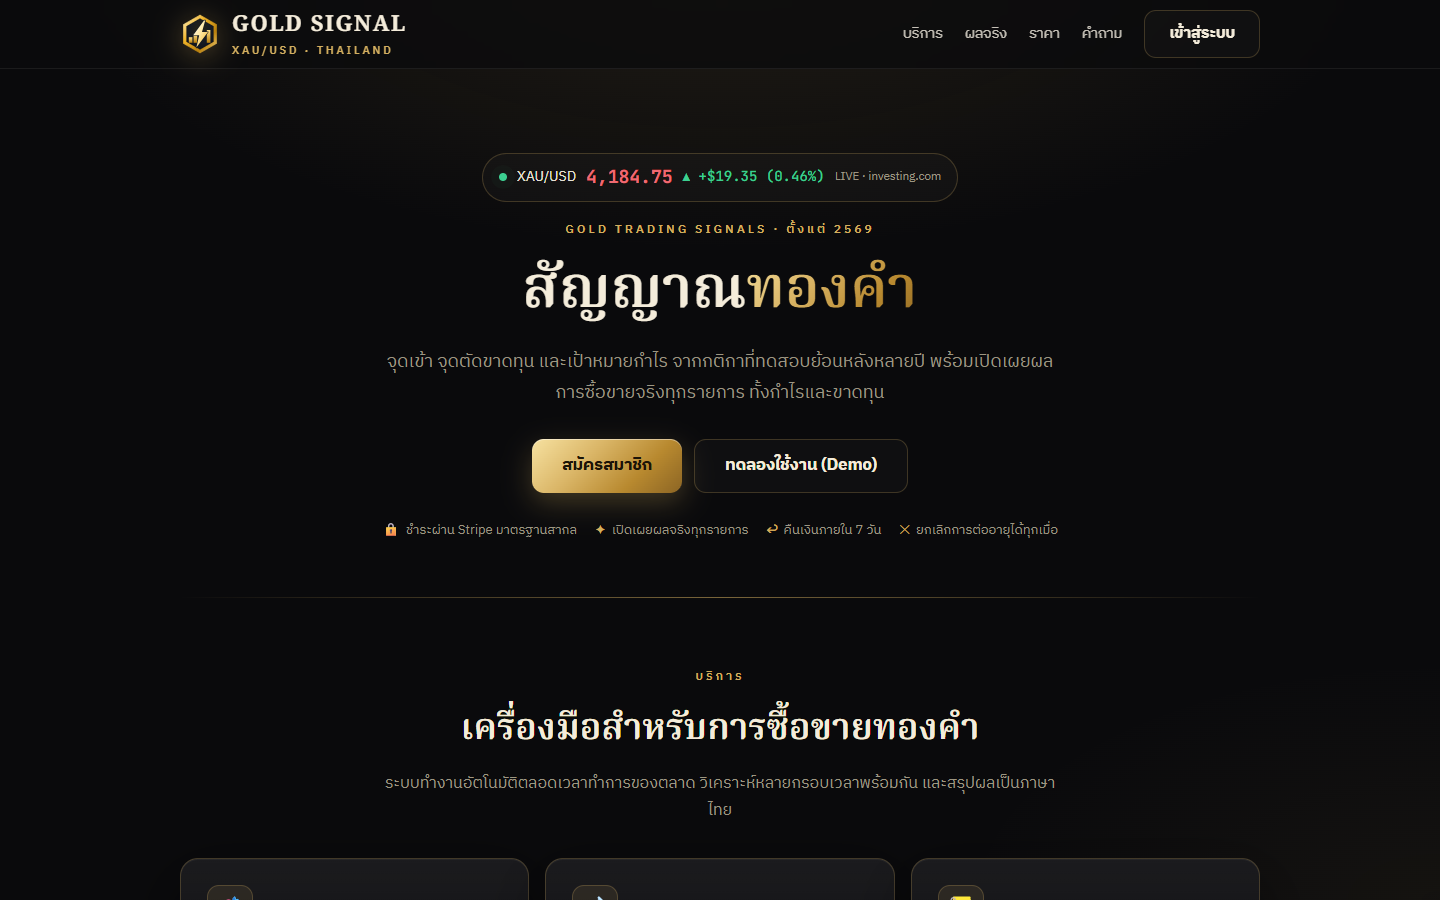
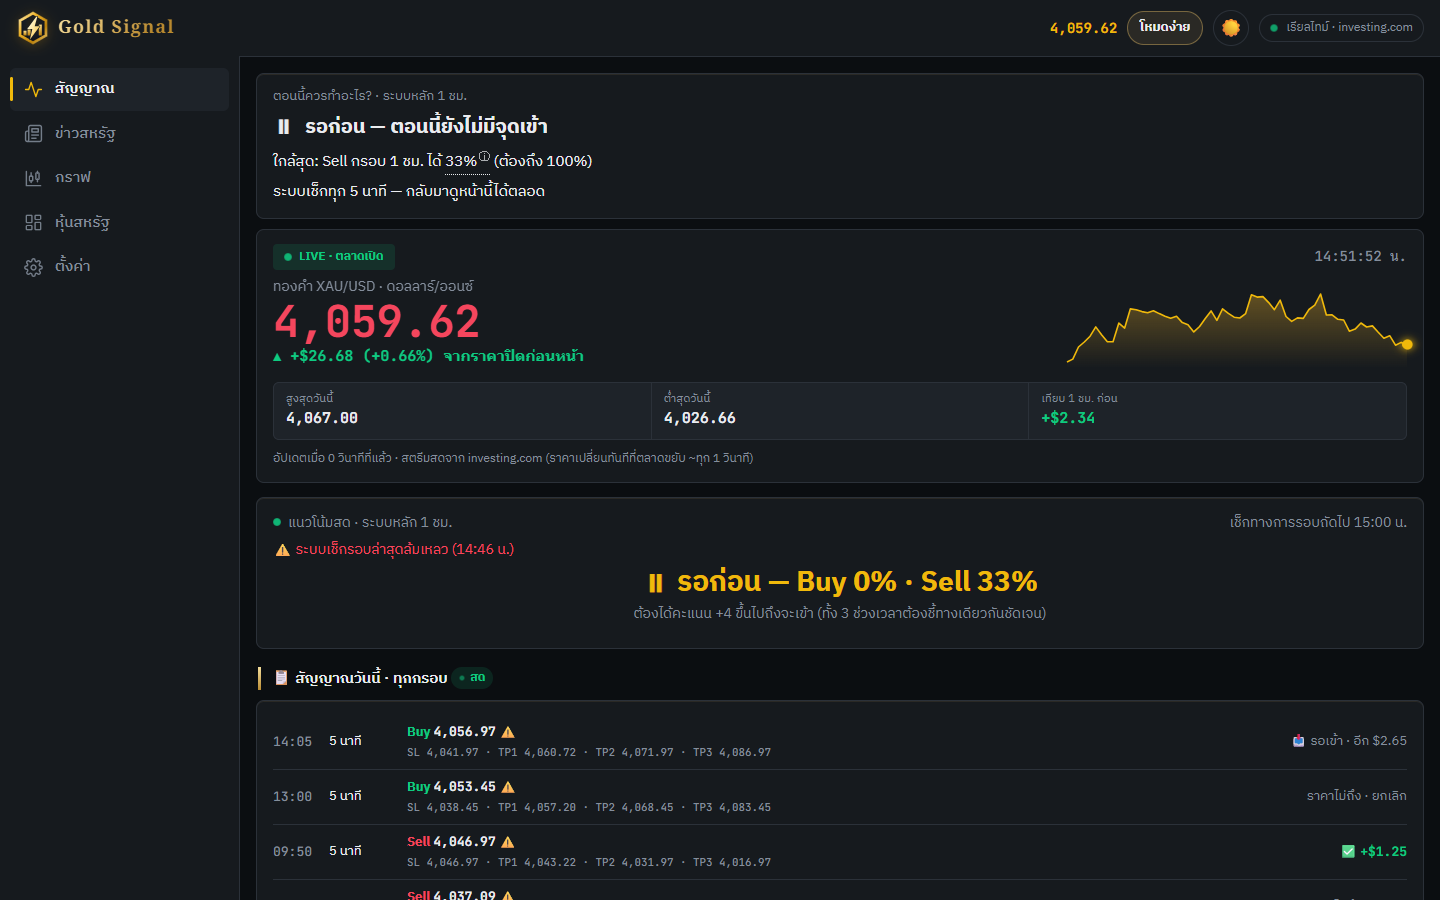
Docs: Skill.md + README for the public site (no LINE / members)

diff --git a/README.md b/README.md
@@ -5,35 +5,24 @@
 <br>
 
 <a href="https://gold-signal.gold-signal.workers.dev"><img src="https://img.shields.io/badge/Website-gold--signal.workers.dev-d4af5f?style=flat-square&labelColor=0a0a0c" alt="Website"></a>
-<a href="https://gold-signal.gold-signal.workers.dev/demo.html"><img src="https://img.shields.io/badge/Demo-available-f4ecda?style=flat-square&labelColor=0a0a0c" alt="Demo"></a>
-<img src="https://img.shields.io/badge/Cloudflare_Workers-000?style=flat-square&logo=cloudflare&logoColor=F38020" alt="Cloudflare Workers"> <img src="https://img.shields.io/badge/Supabase-000?style=flat-square&logo=supabase&logoColor=3ECF8E" alt="Supabase">
+<img src="https://img.shields.io/badge/Cloudflare_Workers-000?style=flat-square&logo=cloudflare&logoColor=F38020" alt="Cloudflare Workers">
 <img src="https://img.shields.io/badge/Node.js-24-3c873a?style=flat-square&logo=nodedotjs&logoColor=white" alt="Node.js">
 <img src="https://img.shields.io/badge/GitHub%20Actions-2088ff?style=flat-square&logo=githubactions&logoColor=white" alt="GitHub Actions">
-<img src="https://img.shields.io/badge/Stripe-635bff?style=flat-square&logo=stripe&logoColor=white" alt="Stripe">
-<img src="https://img.shields.io/badge/LINE%20API-06c755?style=flat-square&logo=line&logoColor=white" alt="LINE API">
 
 </div>
 
 ## Overview
 
-**Gold Signal** คือแพลตฟอร์มสัญญาณการซื้อขายทองคำ (XAU/USD) แบบเรียลไทม์สำหรับนักลงทุนชาวไทย ระบุจุดเข้าซื้อขาย จุดตัดขาดทุน และเป้าหมายกำไร จากกติกาที่ผ่านการทดสอบย้อนหลังด้วยข้อมูลหลายปี และเปิดเผยผลการซื้อขายจริงทุกรายการ ทั้งรายการที่มีกำไรและขาดทุน
+**Gold Signal** คือแพลตฟอร์มสัญญาณการซื้อขายทองคำ (XAU/USD) แบบเรียลไทม์สำหรับนักลงทุนชาวไทย ระบุจุดเข้าซื้อขาย จุดตัดขาดทุน และเป้าหมายกำไร จากกติกาที่ผ่านการทดสอบย้อนหลังด้วยข้อมูลหลายปี และเปิดเผยผลการซื้อขายจริงทุกรายการ ทั้งรายการที่มีกำไรและขาดทุน เปิดใช้งานได้ทันทีโดยไม่ต้องสมัครสมาชิก
 
-*A real-time gold (XAU/USD) trading signal platform for Thai traders: backtested entry, stop-loss and target levels, with every live trade published — profitable and losing alike.*
+*A real-time gold (XAU/USD) trading signal platform for Thai traders: backtested entry, stop-loss and target levels, with every live trade published — profitable and losing alike. Open to everyone, no sign-up required.*
 
-<p align="center"><img src="docs/img/landing.png" alt="Landing page" width="100%"><br><sub>หน้าแรกของเว็บไซต์ — ราคาทองคำแบบเรียลไทม์และผลการดำเนินงานที่อัปเดตอัตโนมัติ</sub></p>
+<p align="center"><img src="docs/img/landing.png" alt="Signals" width="100%"><br><sub>หน้าสัญญาณ — คำแนะนำปัจจุบันของระบบหลัก ราคาทองคำแบบเรียลไทม์ และสัญญาณวันนี้ทุกกรอบเวลา</sub></p>
 
 <table>
 <tr>
-<td width="50%"><img src="docs/img/signals.png" alt="Signals"><br><sub><b>หน้าสัญญาณ</b> — สรุปคำแนะนำปัจจุบันของระบบหลักในประโยคเดียว</sub></td>
 <td width="50%"><img src="docs/img/chart.png" alt="Chart"><br><sub><b>หน้ากราฟ</b> — จุดเข้า Buy / Sell พร้อม SL และ TP ทุกกรอบเวลา</sub></td>
-</tr>
-<tr>
-<td><img src="docs/img/results.png" alt="Results"><br><sub><b>ผลการดำเนินงาน</b> — ผลทดสอบย้อนหลังและผลจริงทุกรายการ</sub></td>
-<td><img src="docs/img/pricing.png" alt="Pricing"><br><sub><b>แพ็กเกจสมาชิก</b> — ชำระผ่าน Stripe (บัตร / PromptPay)</sub></td>
-</tr>
-<tr>
-<td><img src="docs/img/login.png" alt="Sign up"><br><sub><b>การเข้าสู่ระบบและสมัครสมาชิก</b> — จัดวางสองส่วน: ข้อมูลด้านซ้าย แบบฟอร์มด้านขวา พร้อมราคาทองคำแบบเรียลไทม์ อัตราชนะจริงของกติกาปัจจุบันรวมและแยกฝั่ง Buy / Sell ของแต่ละกรอบเวลา ผลเฉลี่ยต่อรายการ ค่าเฉลี่ยของรายการที่ชนะเทียบกับรายการที่แพ้ พร้อมผลของกติกาเดิมที่เลิกใช้ (รวมรายการที่ขาดทุนทั้งหมด) ขั้นตอน 3 ขั้น และคำถามที่พบบ่อย</sub></td>
-<td><img src="docs/img/marketing.png" alt="Back office"><br><sub><b>ระบบหลังบ้าน</b> — ผู้ช่วยร่างประกาศการตลาดจากข้อมูลจริง</sub></td>
+<td width="50%"><img src="docs/img/settings.png" alt="Settings"><br><sub><b>หน้าตั้งค่า</b> — ธีม การติดตั้งเป็นแอป และค่าที่ใช้คำนวณขนาดการซื้อขาย (บันทึกในอุปกรณ์)</sub></td>
 </tr>
 </table>
 
@@ -41,67 +30,56 @@
 
 | Area | Description |
 |---|---|
-| **Signals** | จุดเข้าทุกกรอบเวลาตั้งแต่ 5 นาทีถึง 1 สัปดาห์ · แจ้งเตือนทุกจุดเข้าของกรอบ 5 นาที, 30 นาที, 1 ชั่วโมง, 5 ชั่วโมง และ 1 วัน · กรอบที่ไม่ผ่านการทดสอบทุกช่วงระบุสถานะ "สัญญาณเสี่ยง" · การแบ่งปิดกำไร 3 ระดับบนกรอบ 5 นาที, 30 นาที และ 1 ชั่วโมง · ฝั่งซื้อของกรอบดังกล่าวใช้จุดเข้าแบบรอราคาย่อ และฝั่งขายของกรอบ 15 นาที, 30 นาที และ 1 ชั่วโมงใช้จุดเข้าแบบรอราคาเด้งขึ้น (Limit) และยกเลิกอัตโนมัติเมื่อราคาไม่ถึงภายในเวลาที่กำหนด · กรอบ 15 นาที, 30 นาที และ 1 ชั่วโมงใช้ตัวยืนยันเพิ่มจากเทคนิค ICT (กวาด Stop Loss และการเปลี่ยนโครงสร้างราคา), กรอบพักตัว, การเบรกของ RSI และช่วงเวลาซื้อขายหลัก ซึ่งผ่านการทดสอบว่าเพิ่มอัตราชนะและมีกำไรครบทุกช่วง (ผลทดสอบ 2 ปีแบบเดียวกับระบบจริง: อัตราชนะ 86–91% ประมาณ 9 จุดเข้าต่อวันทำการ ทั้งฝั่งซื้อและขาย) |
+| **Signals** | จุดเข้าทุกกรอบเวลาตั้งแต่ 5 นาทีถึง 1 สัปดาห์ · กรอบที่ไม่ผ่านการทดสอบทุกช่วงระบุสถานะ "สัญญาณเสี่ยง" · การแบ่งปิดกำไร 3 ระดับบนกรอบ 5 นาที, 30 นาที และ 1 ชั่วโมง · ฝั่งซื้อของกรอบดังกล่าวใช้จุดเข้าแบบรอราคาย่อ และฝั่งขายของกรอบ 15 นาที, 30 นาที และ 1 ชั่วโมงใช้จุดเข้าแบบรอราคาเด้งขึ้น (Limit) และยกเลิกอัตโนมัติเมื่อราคาไม่ถึงภายในเวลาที่กำหนด · กรอบ 15 นาที, 30 นาที และ 1 ชั่วโมงใช้ตัวยืนยันเพิ่มจากเทคนิค ICT (กวาด Stop Loss และการเปลี่ยนโครงสร้างราคา), กรอบพักตัว, การเบรกของ RSI และช่วงเวลาซื้อขายหลัก ซึ่งผ่านการทดสอบว่าเพิ่มอัตราชนะและมีกำไรครบทุกช่วง (ผลทดสอบ 2 ปีแบบเดียวกับระบบจริง: อัตราชนะ 86–91% ประมาณ 9 จุดเข้าต่อวันทำการ ทั้งฝั่งซื้อและขาย) |
 | **Backtesting** | ทดสอบย้อนหลังด้วยข้อมูล 2–5 ปี แบ่ง 4 ช่วงเวลา หักต้นทุนสเปรด และทดสอบซ้ำอัตโนมัติทุกเดือน |
-| **Transparency** | ระบบบันทึกการเปิด–ปิดรายการอัตโนมัติทุก 5 นาที และแสดงผลจริงทั้งกำไรและขาดทุน · หน้าสาธารณะแสดงอัตราชนะจริงแยกตามกรอบเวลาและฝั่ง Buy / Sell พร้อมผลเฉลี่ยต่อรายการ และค่าเฉลี่ยของรายการที่ชนะเทียบกับรายการที่แพ้ อัปเดตทุก 15 วินาที |
+| **Transparency** | ระบบบันทึกการเปิด–ปิดรายการอัตโนมัติทุก 5 นาที และแสดงผลจริงทั้งกำไรและขาดทุน อัปเดตบนหน้าเว็บทุก 15 วินาที |
 | **Risk Controls** | หยุดให้สัญญาณอัตโนมัติเมื่อขาดทุนต่อเนื่อง · งดเข้าซื้อขายช่วงประกาศข่าวเศรษฐกิจสำคัญ · เครื่องคำนวณขนาดการซื้อขาย |
 | **Real-time Data** | ราคาสดจากสตรีมข้อมูล (~1 วินาที) พร้อมแหล่งข้อมูลสำรองและการเชื่อมต่อใหม่อัตโนมัติ |
 | **Performance** | แอนิเมชันทำงานบน GPU · หยุดการดึงข้อมูลของส่วนที่ไม่ได้แสดงผลและเมื่อพับหน้าจอ · ภาระการประมวลผลขณะเปิดค้างไว้บนโทรศัพท์ลดลงประมาณ 80% · แคชข้อมูลกราฟรายกรอบเวลา เปลี่ยนกรอบเวลาได้ทันที |
-| **Notifications** | LINE Official Account และ Web Push · แจ้งจุดเข้าของกรอบ 5 นาที ถึง 1 วัน รวมเป็นข้อความเดียวทุก 30 นาที พร้อมแจ้งเมื่อถึง TP1 ให้เลื่อน SL ไปที่ทุน และเมื่อคำสั่งรอราคาถูกยกเลิก · ภาพรวมราคาทองคำทุกเช้าวันทำการ · สรุปผลรายสัปดาห์ทุกวันเสาร์ · การแจ้งเตือนราคาที่กำหนดเอง · การแจ้งเตือนก่อนสมาชิกภาพหมดอายุ |
-| **AI Coach** | ผู้ช่วย AI วิเคราะห์สัญญาณทุกกรอบเวลาและบันทึกการซื้อขายของสมาชิกก่อนให้คำแนะนำ ตอบด้วยภาษาทางการ |
 | **US Equities** | แดชบอร์ด Nasdaq 100, S&P 500, หุ้นปันผล และพอร์ตการลงทุนของนักลงทุนสถาบัน 28 รายจากรายงาน 13F |
-| **Onboarding** | หน้าสมัครแสดงราคาทองคำแบบเรียลไทม์ สรุปผลทดสอบและผลจริง (รวมทุกรายการ) ขั้นตอน 3 ขั้น และคำถามที่พบบ่อย 6 หัวข้อในรูปแบบการ์ด · หน้าต่างแนะนำการใช้งานหลังชำระเงิน · โหมดใช้งานแบบง่าย / แบบเทรดเดอร์ · ทัวร์แนะนำครั้งแรก · คำอธิบายศัพท์ |
-| **Membership & Billing** | Stripe Checkout (บัตรต่ออายุอัตโนมัติ / PromptPay) · การเปิด–ปิดสิทธิ์ผ่าน webhook · การคืนเงิน · โปรแกรมแนะนำเพื่อน |
-| **Back Office** | การจัดการสมาชิก บันทึกการเข้าใช้งาน บทความ สถานะระบบ รายงานรายได้ และผู้ช่วยร่างประกาศการตลาด |
+| **Access** | เว็บไซต์สาธารณะ ไม่ต้องสมัครสมาชิกหรือเข้าสู่ระบบ · โหมดใช้งานแบบง่าย / แบบเทรดเดอร์ · ทัวร์แนะนำครั้งแรก · คำอธิบายศัพท์ · ติดตั้งเป็นแอปบนโทรศัพท์ได้ (PWA) |
 
 ## Architecture
 
 ```mermaid
 flowchart LR
   INV["investing.com<br/>price + stream"]
-  subgraph B["Member browser"]
+  subgraph B["Browser"]
     UI["index.html / main.js<br/>chartzones / chartchat / easy.js"]
   end
   subgraph V["Cloudflare Worker"]
-    MW["middleware.js<br/>login + membership"]
-    API["api/*.mjs<br/>pro / pay / coach / market"]
-    BLOB[("Supabase<br/>members / journals / articles")]
+    MW["middleware.js<br/>data files + quotes"]
+    API["api/*.mjs<br/>news / candles"]
   end
   subgraph G["GitHub Actions"]
-    LOOP["check-loop.sh every 5 min<br/>chart-run / news-warn / alerts / backup"]
+    LOOP["check-loop.sh every 5 min<br/>chart-run / alerts"]
     DATA[("branch data<br/>chart-signals.json")]
   end
   INV --> UI
   INV --> LOOP
   UI --> MW
   MW --> API
-  API --> BLOB
   LOOP --> DATA
   DATA --> MW
-  LOOP --> LINE["LINE + Web Push"]
-  API --> STRIPE["Stripe"]
-  API --> CLERK["Clerk"]
 ```
 
 ## Tech Stack
 
 - **Frontend** — HTML, CSS, JavaScript (ไม่ใช้ framework) · TradingView Lightweight Charts
-- **Backend** — Cloudflare Workers (static assets, middleware, API, Cron Triggers), Supabase (Postgres)
+- **Backend** — Cloudflare Workers (static assets, middleware, API)
 - **Automation** — GitHub Actions (ตรวจสอบสัญญาณทุก 5 นาทีต่อเนื่อง โดยแต่ละรอบจัดคิวรอบถัดไปเพื่อไม่ให้มีช่วงว่าง, งานรายวัน / รายสัปดาห์ / รายเดือน)
-- **Integrations** — Stripe, Clerk, LINE Messaging API, Web Push, Cloudflare Workers AI, SEC EDGAR
+- **Data Sources** — investing.com, Binance (PAXG), Yahoo Finance, SEC EDGAR
 - **Research** — Node.js และ Python สำหรับการทดสอบย้อนหลัง (`research/`)
 
 ## Project Structure
 
 ```
-├── index.html · main.js · chartzones.js · chartchat.js · easy.js   เว็บไซต์สำหรับสมาชิก
+├── index.html · main.js · chartzones.js · chartchat.js · easy.js   เว็บไซต์
 ├── chartsys.js · intraday.js · indicators.js · signals.js          กติกาสัญญาณ (ใช้ร่วมกับระบบบันทึก)
-├── welcome.html · login.html · pay.html · demo.html · terms.html   หน้าสาธารณะ
 ├── worker.js · wrangler.toml                                       Cloudflare Worker (เส้นทาง, API, ไฟล์เว็บ)
-├── middleware.js                                                   การยืนยันตัวตนและสิทธิ์สมาชิก
-├── api/            pro · pay · golive · coach · journal · articles · market · news · candles
-├── lib/            gs · stripe · blog · ref
-├── scripts/        chart-run · news-warn · price-alerts-user · pro-expiry · backup-blob · market-send
+├── middleware.js                                                   ไฟล์ข้อมูลสัญญาณจาก branch data และราคาหุ้นสหรัฐ
+├── api/            news · candles
+├── scripts/        chart-run · alerts · morning-plan · weekly · gurus-live
 ├── research/       ชุดทดสอบย้อนหลัง
 └── zframes/        แดชบอร์ดหุ้นสหรัฐ
 ```
@@ -112,7 +90,7 @@ flowchart LR
 PORT=3000 node dev-server.js     # ไม่ต้องติดตั้ง dependency — /api/* ใช้ข้อมูลจำลอง
 ```
 
-การนำขึ้นระบบใช้คำสั่ง `bash scripts/cf-build.sh && npx wrangler deploy` (Cloudflare Workers) ข้อมูลการซื้อขายจัดเก็บใน branch `data` ข้อมูลสมาชิกจัดเก็บใน Supabase และค่าลับทั้งหมดจัดเก็บใน Cloudflare Secrets / GitHub Secrets
+การนำขึ้นระบบใช้คำสั่ง `bash scripts/cf-build.sh && npx wrangler deploy` (Cloudflare Workers) ข้อมูลการซื้อขายจัดเก็บใน branch `data`
 
 ## Disclaimer
 
